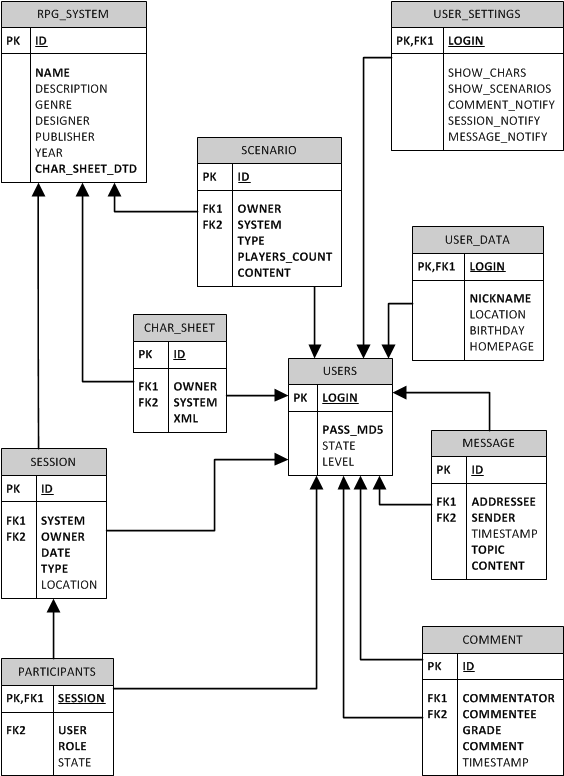
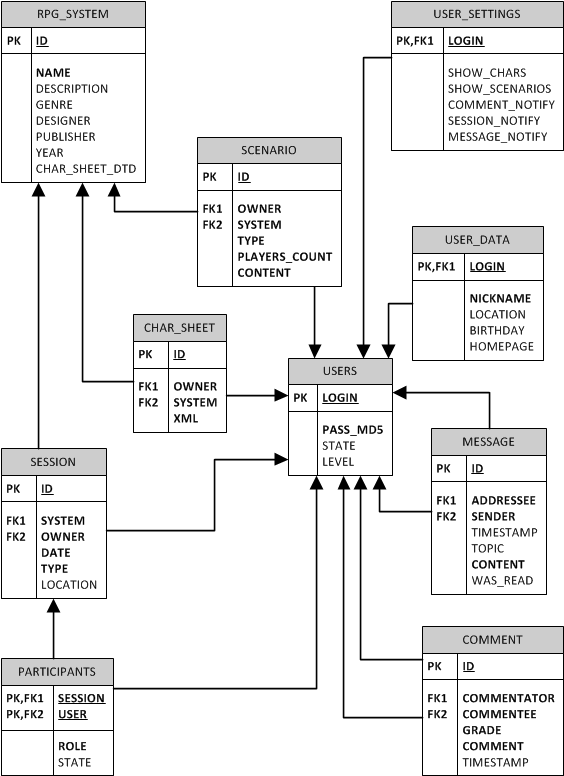
latex - DB creation script and updates regarding it

diff --git a/ZTB-dokumentacja/ZTB-dokumentacja.tex b/ZTB-dokumentacja/ZTB-dokumentacja.tex
@@ -17,6 +17,14 @@ citebordercolor={1 1 1}, % set to white
 urlbordercolor={1 1 1} % set to white
 } 
 
+\lstset{ %
+  basicstyle=\footnotesize,           % the size of the fonts that are used for the code
+  numbers=left,                   % where to put the line-numbers
+  stepnumber=1,                   % the step between two line-numbers. 
+  numbersep=7.5pt,                  % how far the line-numbers are from the code
+  frame=single,                   % adds a frame around the code
+}
+
 %---------------------------------------------------------------------------
 
 \author{Marek Cabaj, Radosław Gabiga,\\Andrzej Kiełtyka}

diff --git a/ZTB-dokumentacja/rozdzial2.tex b/ZTB-dokumentacja/rozdzial2.tex
@@ -1,10 +1,10 @@
 \chapter{Projekt logiczny}
 \label{cha:logiczny}
 
-\section{Projekt bazy danych}
+\section{Projekt bazy danych (postgreSQL)}
 \label{sec:bazadanych}
 
-Lorem ipsum.
+\lstinputlisting[language=SQL]{./code/create_db.sql}
 
 %%%%%%%%%%%%%%%%%%%%%%%%%%%%%%%%%%%%%%%%
 

diff --git a/ZTB-dokumentacja/rozdzial1.tex b/ZTB-dokumentacja/rozdzial1.tex
@@ -253,6 +253,7 @@ Lorem ipsum.
 	\item timestamp
 	\item temat
 	\item treść
+	\item czy przeczytana
 	\end{itemize}
 \item Komentarz
 	\begin{itemize}
